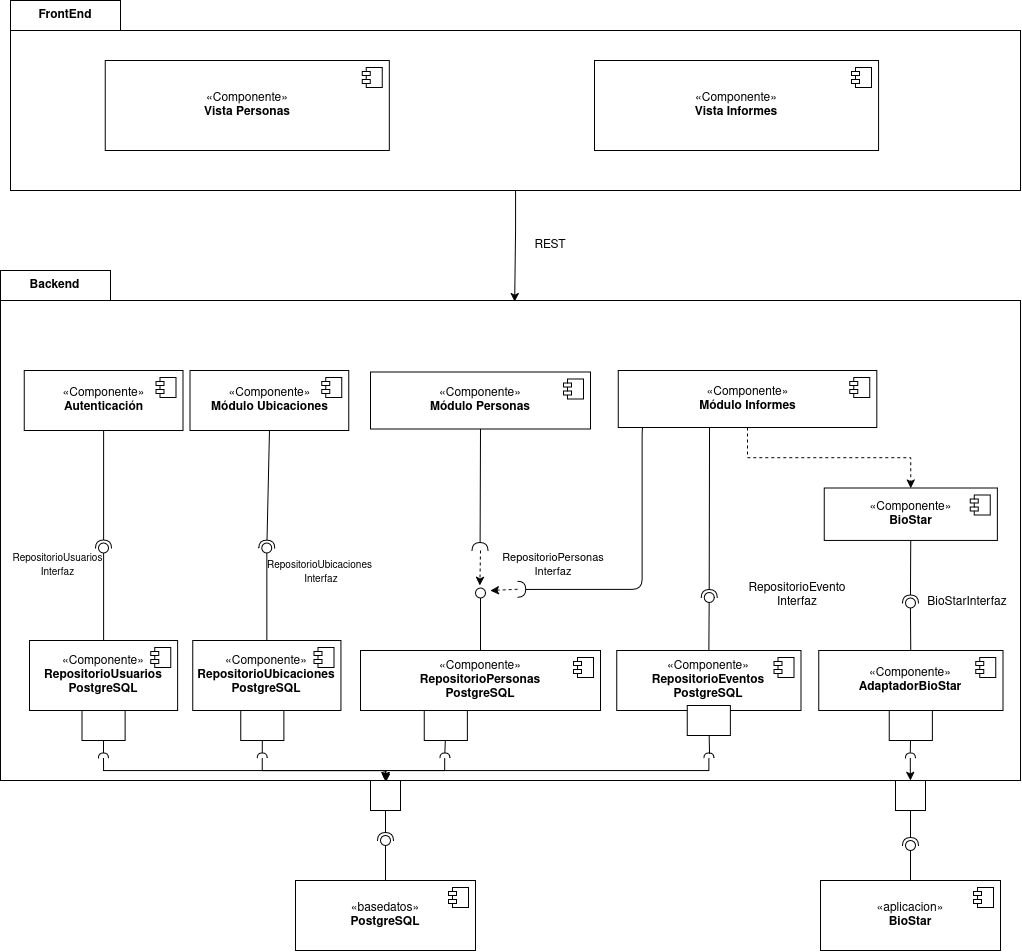
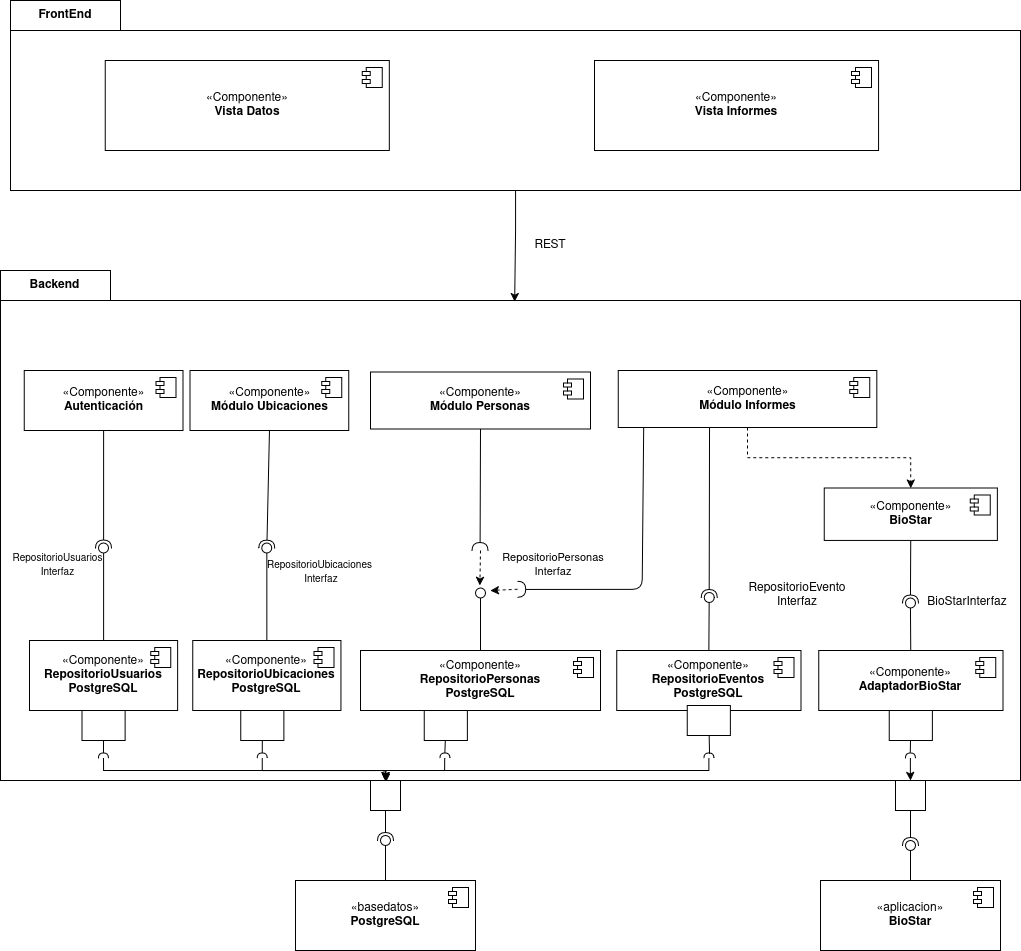
docs: update component diagram and improve component's explanation

diff --git a/docs/ARQUITECTURA.md b/docs/ARQUITECTURA.md
@@ -49,7 +49,7 @@ A continuación se presenta el diagrama de componentes del sistema. En el cual s
 
 En el diagrama de componentes se representan los módulos para la gestión de las principales entidades del dominio del negocio, como lo son personas, ubicaciones y eventos. Cada módulo internamente está compuesto por las diferentes capas del modelo hexagonal, como lo son el dominio y casos de uso. Se realiza una representación de mayor nivel para representarlas como un componente conjunto, el cual está separado del componente que accede a los datos, demostrando un desacople de la lógica del negocio de la persistencia de la información.
 
-En el frontend hay dos componentes principales, la vista de las personas donde se realizan los procesos relacionados a la carga de personas. También está la vista de los informes donde se presenta al usuario la información de los informes y los controles para generarlos.
+En el frontend hay dos componentes principales, la vista de los datos donde se realizan los procesos relacionados a la carga de personas, sedes y puntos de acceso. También está la vista de los informes donde se presenta al usuario la información de los reportes de ocupación, eventos de acceso.
 
 ![diagrama_componentes](./imgs/diagrama_componentes.png)
 